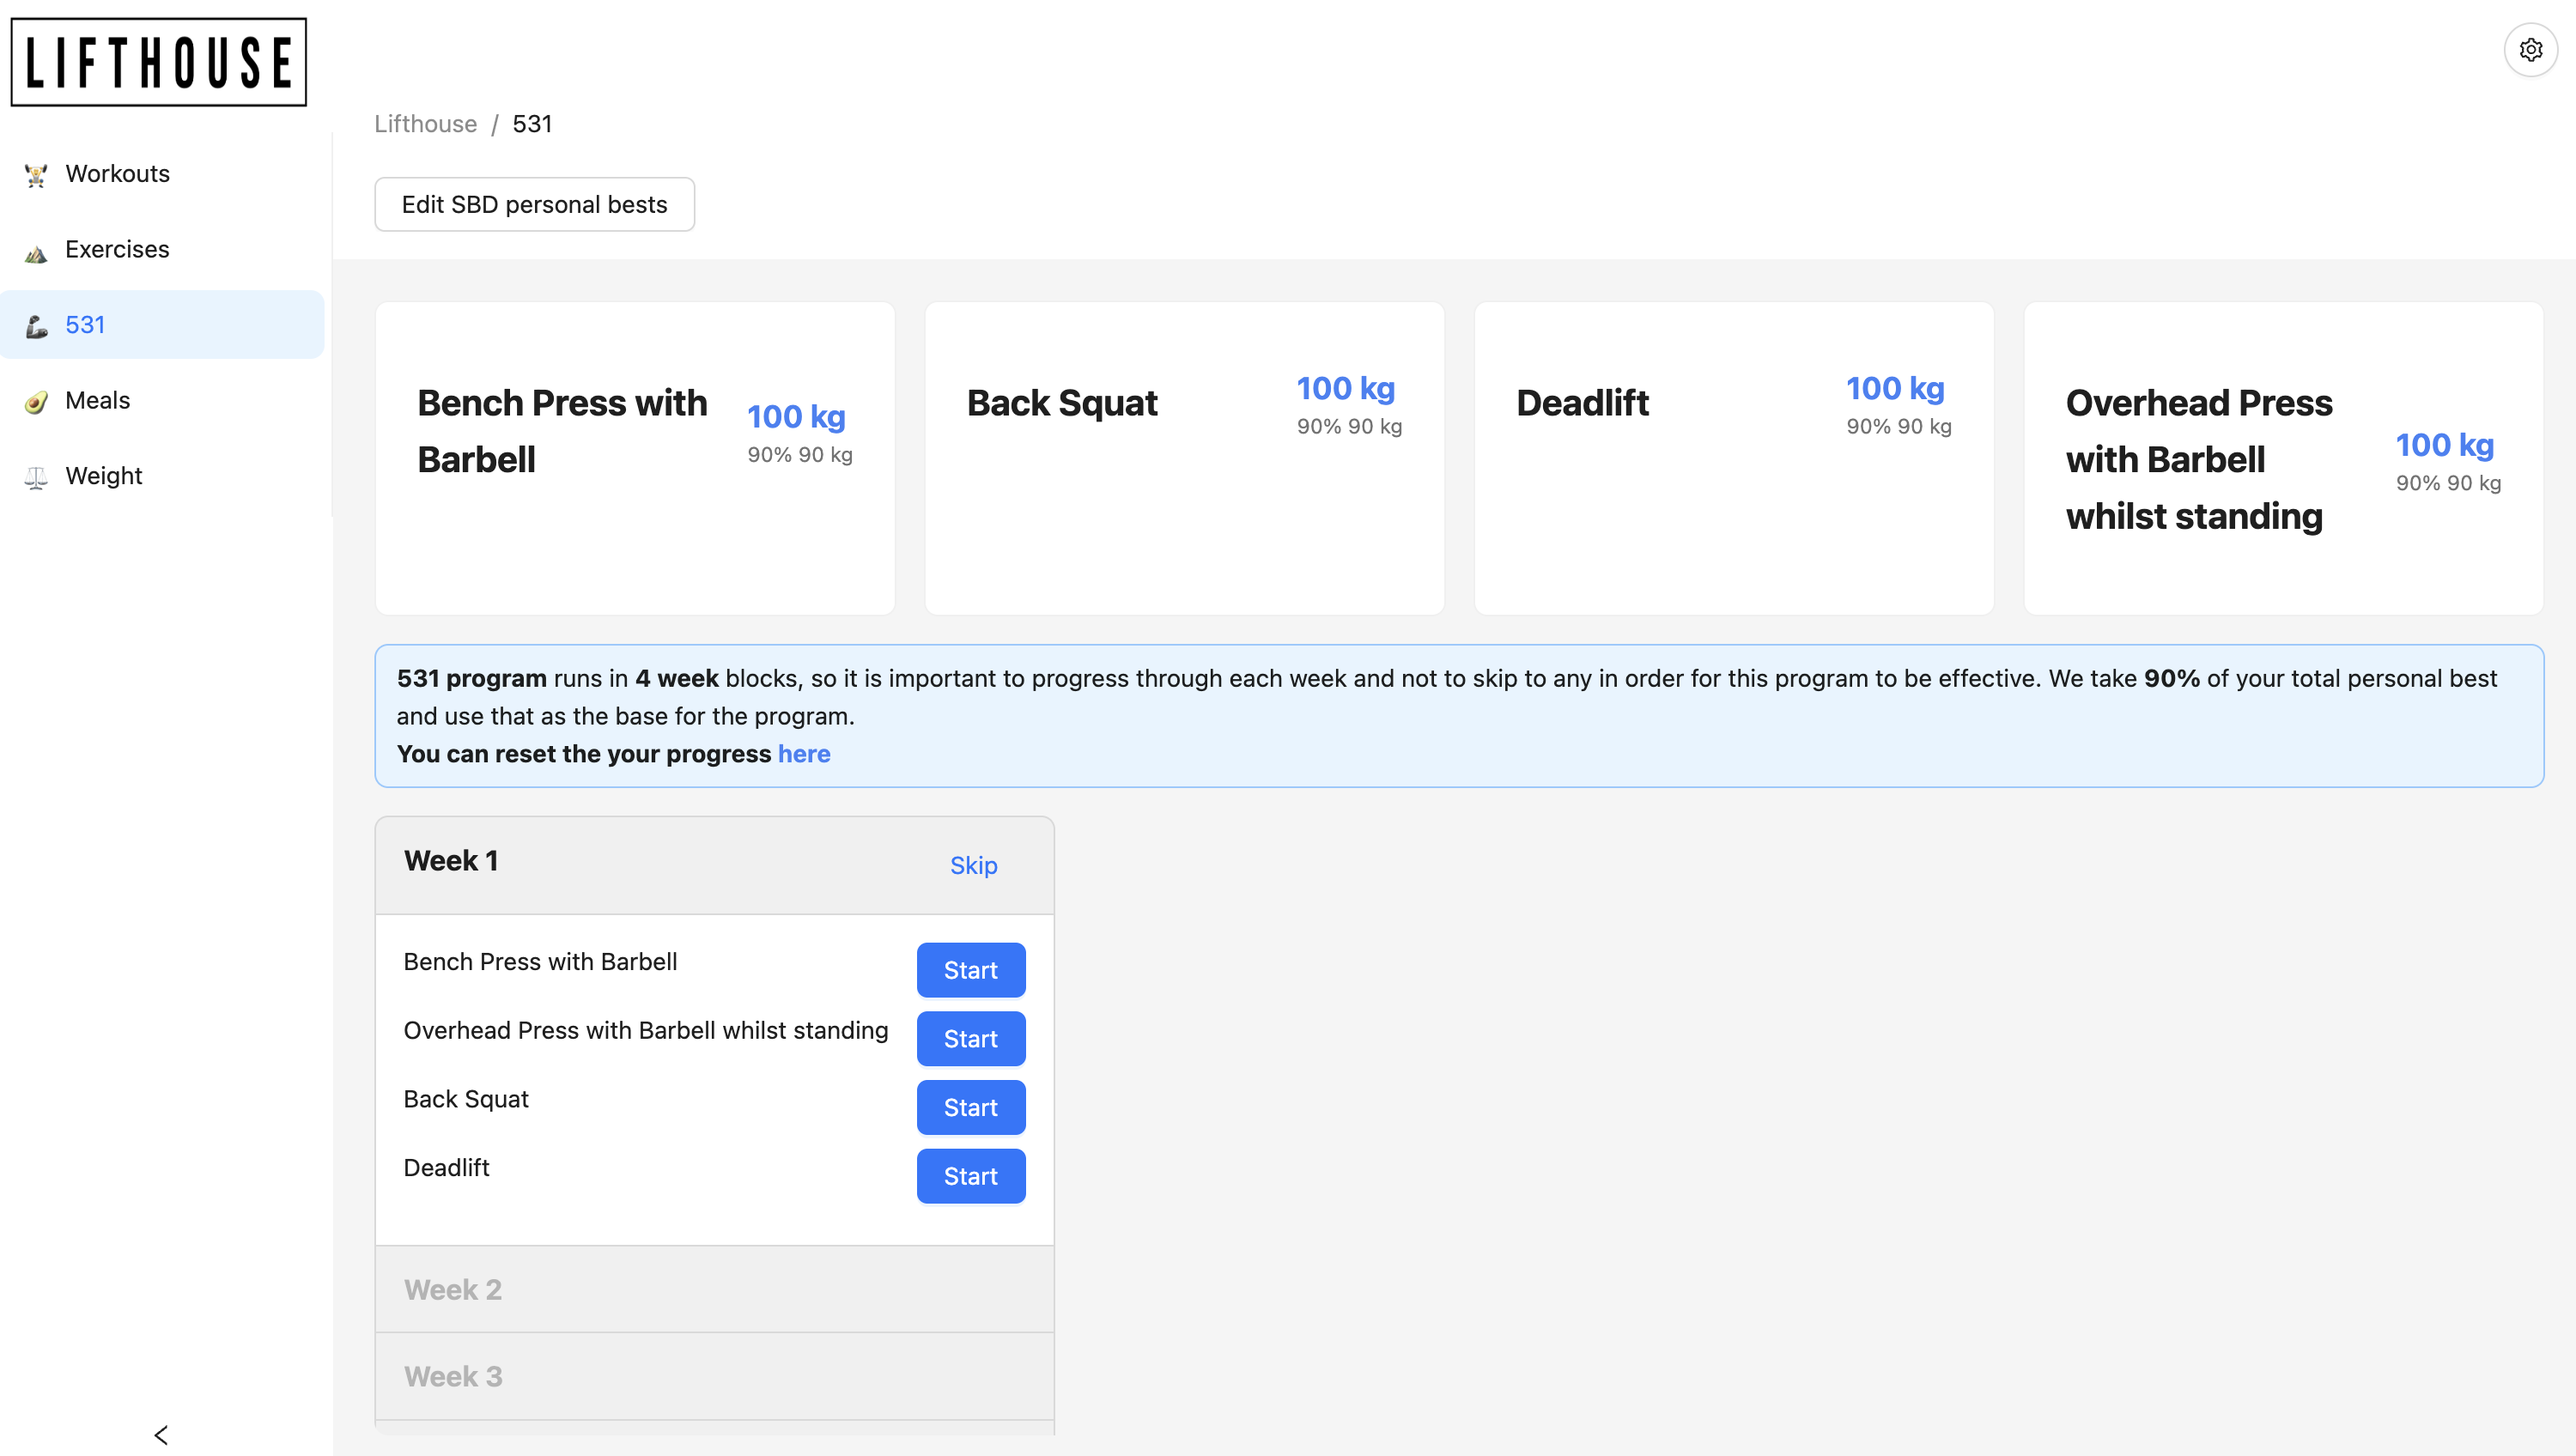
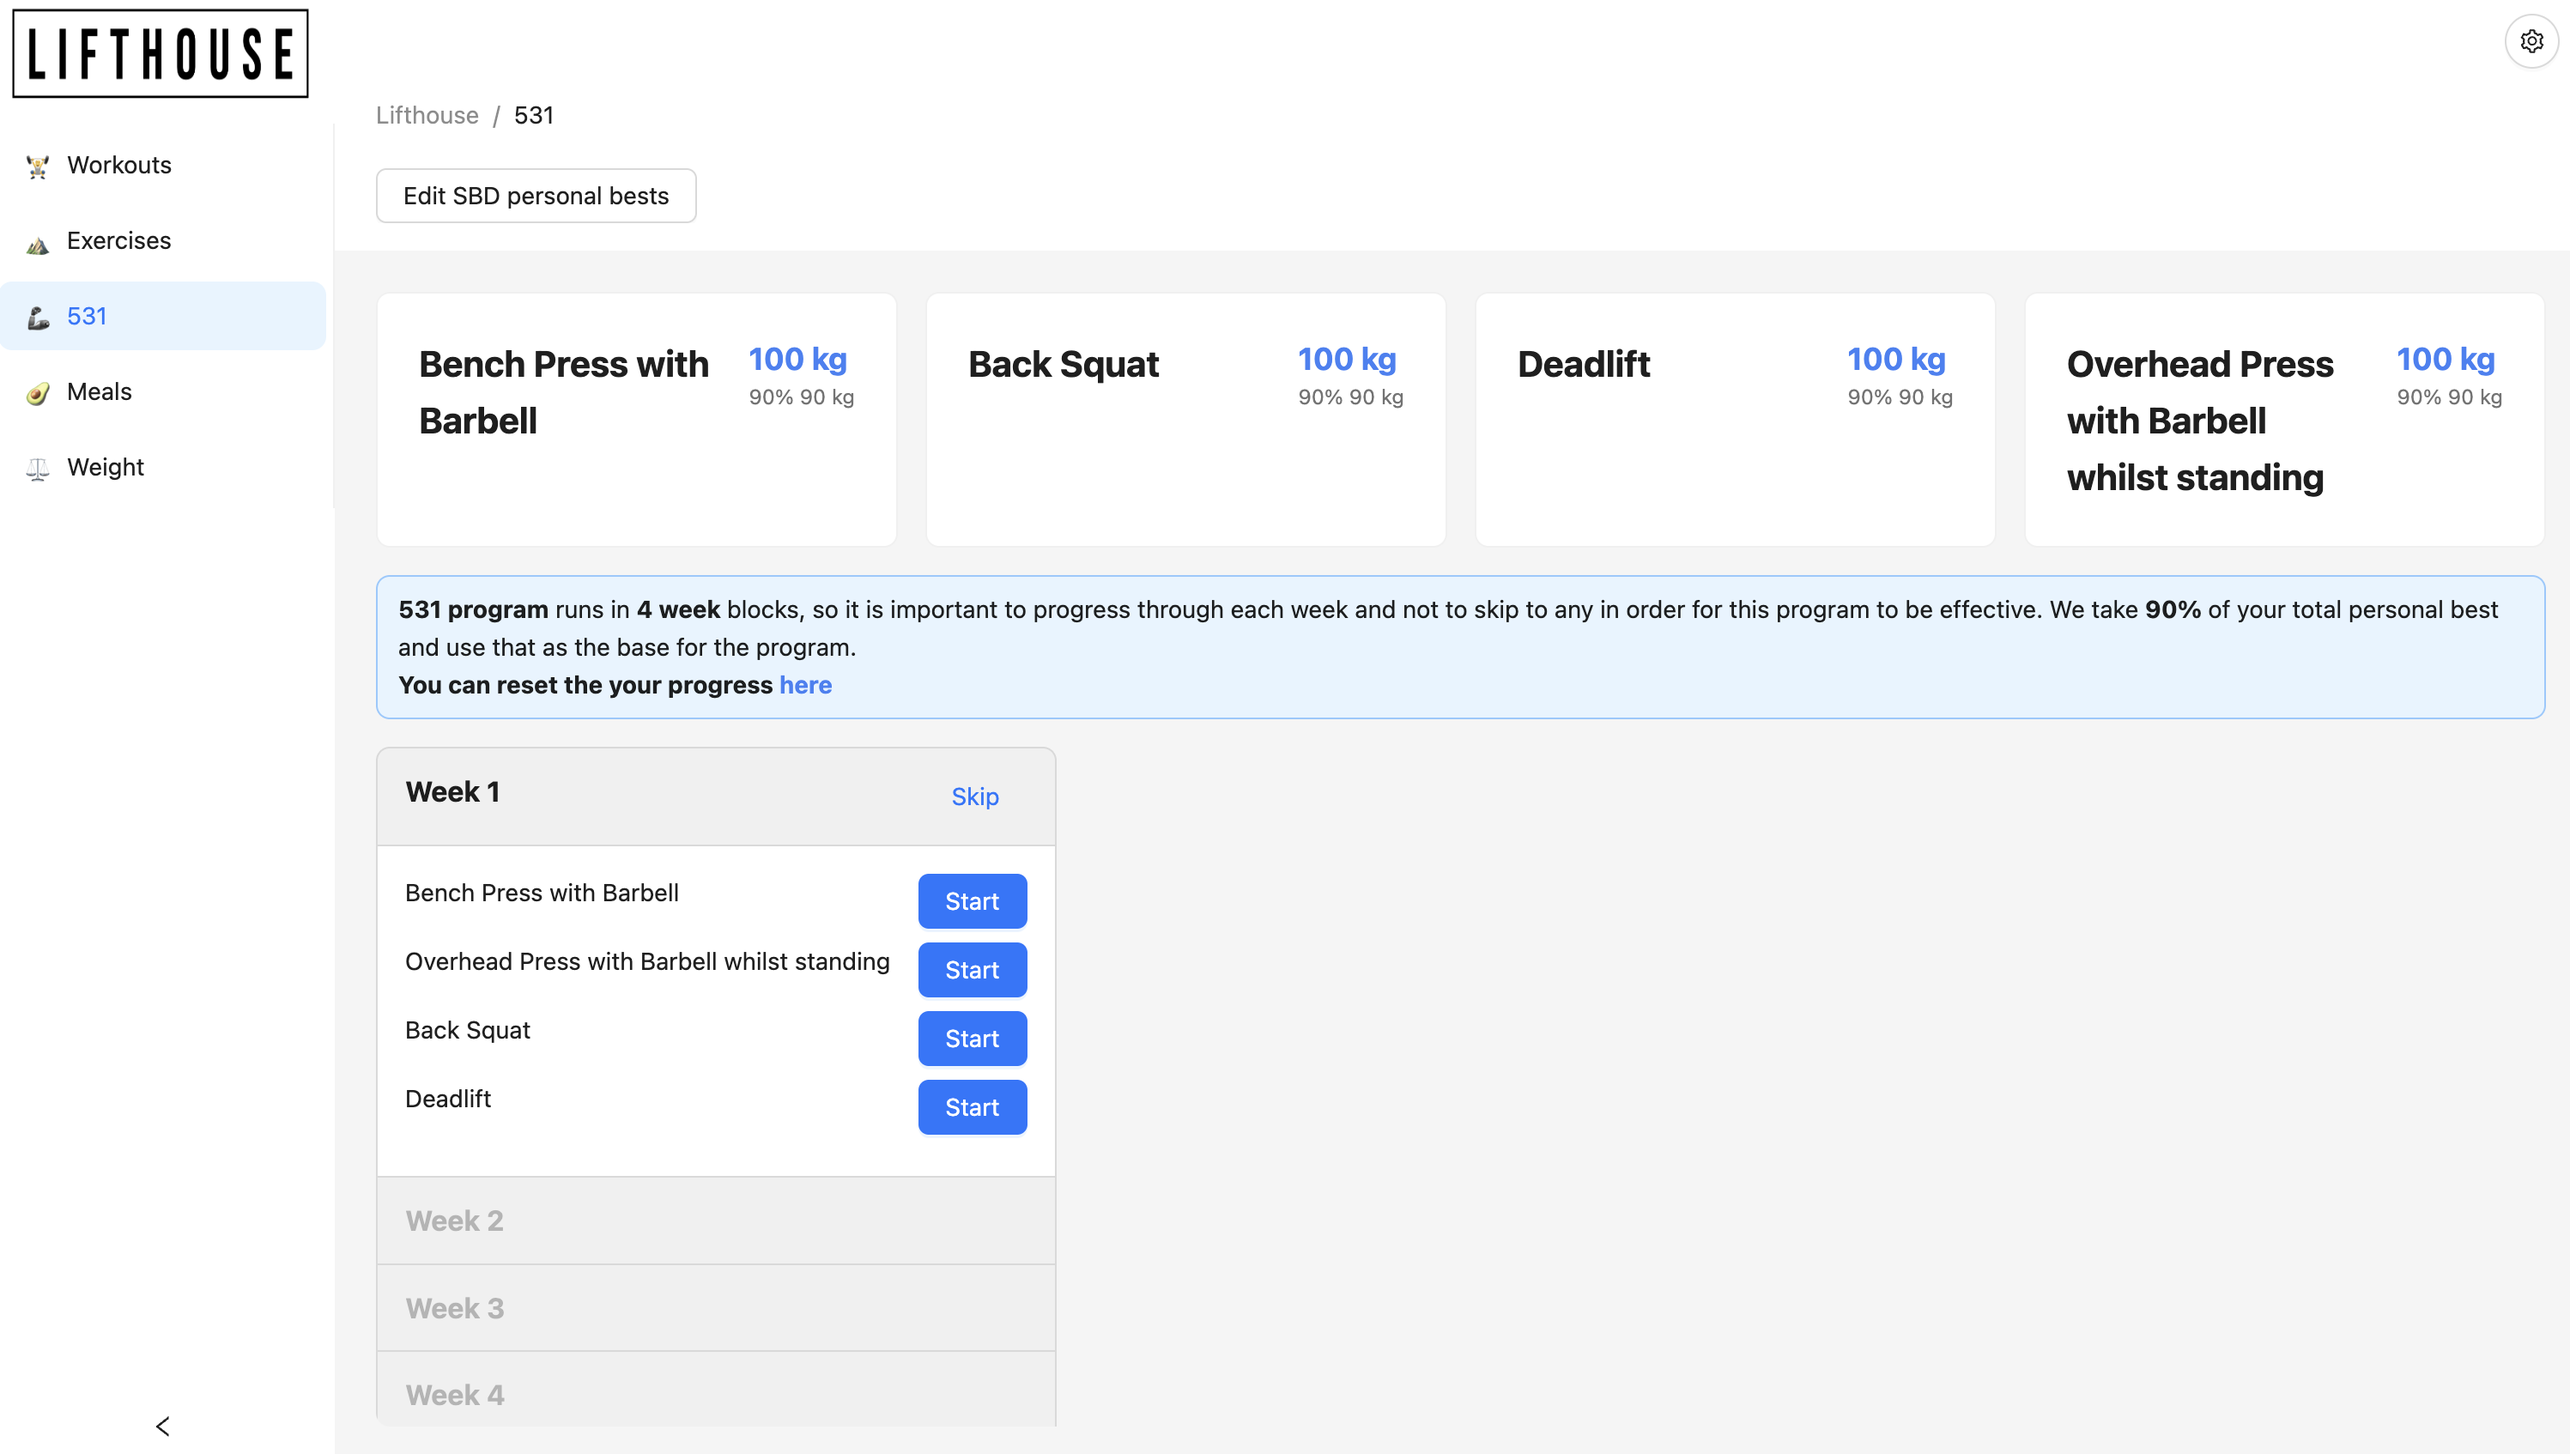
fix alignment

diff --git a/src/app/lifthouse/531/fiveThreeOne.tsx b/src/app/lifthouse/531/fiveThreeOne.tsx
@@ -100,8 +100,8 @@ type Props = {
 };
 function CardContent({ title, value, isLoading }: Props) {
   return (
-    <div className="flex items-center justify-between">
-      <h2>{title}</h2>
+    <div className="flex justify-between">
+      <h2 className="p-0 m-0">{title}</h2>
       {isLoading ? (
         <Skeleton.Button active />
       ) : (
